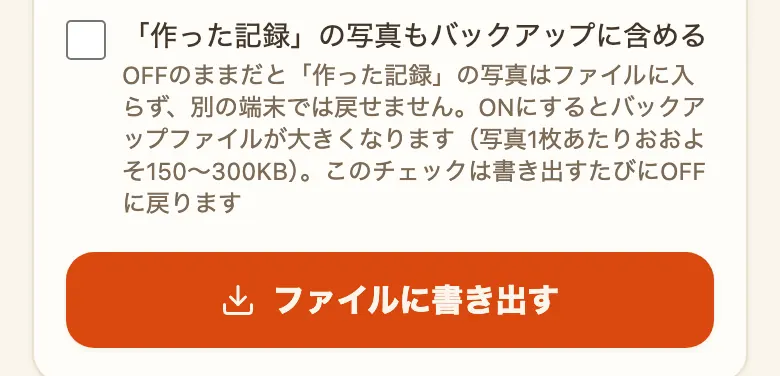
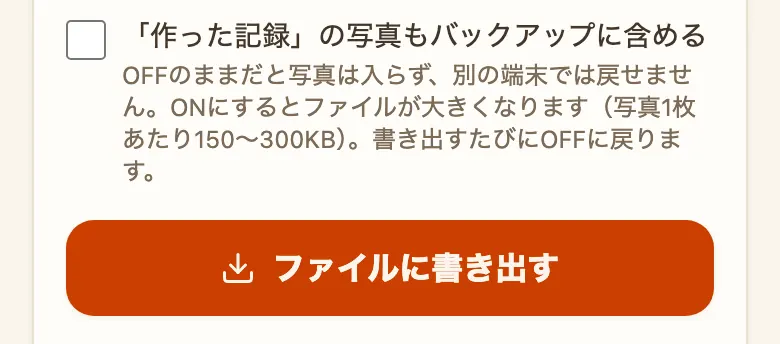
便FY(1/n): 説明書スクショ33カットを点検し8枚を現行UIへ追随+選択モードで献立に入れる図を新設
点検方法は 便EU/FJ と同じ(全カットを撮り直し、現行UIと1枚ずつ比べて『UIの変化』と
『毎回変わるデータ(日付・ランダム提案・生成された金額)』を切り分ける)。

撮り直した8枚(UIが変わったもの):
- cookmode-voice / cooknavi-session … 上部に「文字」(文字の大きさ)のボタンが増え、
  声の案内が3項目1行になった(便FX)
- cookmode … 上の案内が1行に縮んだぶん手順の本文が上がった
- cooknavi … 湯沸かしの待ちに数え方の2行が入った(便FX)
- cooknavi-session-others … 色の囲みの幅がそろった(便FX)
- backup-export / backup-import … 説明文が短くなり「今のデータに追加」の説明が消えた(便FW)
- paste … 調理時間が読み取れなかったことを結果に続けて出すようになった(便FU-3)

データだけが違って現行UIと同じだった15枚(home-suggest・register-tabs・ingredient-rows・
bulk-input・plan-week-day・plan-week-nutrition-open/row・cost-week・plan-month・shopping・
pantry・share・timer と紹介ページのplan-week-free・cost-week-free)は、日付や提案が
入れ替わるだけなので元の絵に戻した。install(6枚)とアプリ内の図(1枚)は組み立てが同じで
再生成しても1バイトも変わらないことを確認。

新設: select-for-today(「今日の献立を選ぶ」で開くレシピ一覧の選択モード)。
本文は「レシピ一覧が選択モードで開きます」と書いているのに図が1枚も無く、
押したあと何が起きるのかが読めなかった。

logs と plan-month-photo は写真5枚(misoshiru・hoikoro を含む)が要るが .manual-photos/ が
無いため撮っていない(既知の申し送り。.demo-photos の3枚では写真が減る)。

alt・width/height・scripts/data/manual-shot-sizes.json も追随。paste と backup-* は
紹介ページ(index.html)と複数の端末で使う方法(multi-device.html)にも載っているので同時に直した。

diff --git a/public/about/manual.html b/public/about/manual.html
@@ -680,11 +680,12 @@
     </ol>
 
     <figure class="shot" style="--w:390px">
-      <img src="/about/img/manual/paste.webp" width="780" height="844" loading="lazy" decoding="async" alt="テキスト貼り付けの欄。貼り付けた文章の下に「材料4件・手順3件を読み取りました。内容を確認して修正してください」と出て、その下に合わせ調味料の色分けについての案内と、「自動で振り分ける」「閉じる」のボタンが並んでいる">
+      <img src="/about/img/manual/paste.webp" width="780" height="924" loading="lazy" decoding="async" alt="テキスト貼り付けの欄。貼り付けた文章の下に「材料4件・手順3件を読み取りました。内容を確認して修正してください。調理時間は貼り付けた文章に書かれていなかったので、調理時間の欄は空のままです。」と出て、その下に合わせ調味料の色分けについての案内と、「自動で振り分ける」「閉じる」のボタンが並んでいる">
       <figcaption>貼り付けて「自動で振り分ける」を押すと、読み取った件数が出ます</figcaption>
     </figure>
 
     <p>「材料」「作り方」の見出しや改行のある文章はきれいに読み取れます。うまく読み取れなかったときは、案内に従って手で入れてください。</p>
+    <p class="muted">調理時間は、貼り付けた文章に書かれていれば一緒に入ります。入らなかったときは「調理時間は貼り付けた文章に書かれていなかったので、調理時間の欄は空のままです。」と結果に続けて出るので、手で入れてください。</p>
     <p class="muted">すでに材料・手順を入力している状態で振り分けると、材料・手順に加え、人数分・調理時間も貼り付けたものに置き換わります。置き換わる前に確認が出ます（料理名・ひとこと説明・メモはそのまま残ります）。</p>
 
     <h3>URLから取り込む</h3>
@@ -768,6 +769,13 @@
       <li>「今日の献立を選ぶ」: レシピ一覧が選択モードで開きます。レシピをタップして選び、「選択したレシピ◯品を今日の献立に入れる」を押すと、選んだぶんがまとめて入ります（食事は1回だけ聞かれます）</li>
       <li>「おまかせで提案」: 今日の分だけ、主菜と副菜を1品ずつ選びます</li>
     </ul>
+
+    <figure class="shot" style="--w:390px">
+      <!-- 2026-08-13 便FY: 本文が「レシピ一覧が選択モードで開きます」と書いているのに図が
+           1枚も無く、押したあとどんな画面になるのかが読めなかったため追加 -->
+      <img src="/about/img/manual/select-for-today.webp" width="780" height="990" loading="lazy" decoding="async" alt="「今日の献立を選ぶ」を押して開いたレシピ一覧。上に「今日の献立に入れるレシピを選んでいます」の枠、「全選択」「選択解除」、「選択したレシピ2品を今日の献立に入れる」のボタンが並び、その下の選んだ2枚のカードの左上にチェックの印が付いている">
+      <figcaption>「今日の献立を選ぶ」を押したあとのレシピ一覧。選んだ品数がボタンに出ます</figcaption>
+    </figure>
     <p>おまかせのあとに出る「別の提案を見る」を押すと、前のおまかせ分を入れ替えて別の組み合わせを提案し直します。決まった品は「作った！」で片付けられ、まとめて片付けるときは「全て作った！」を押します。</p>
     <p>決まった品は<strong>「レシピ一覧から選択中」</strong>と<strong>「今週の献立の予定」</strong>（朝食・昼食・夕食）に分かれて縦に並びます。「この献立から外す」（×）が押せるのは「レシピ一覧から選択中」だけです。今週の献立の予定は「週」の画面で変更します。</p>
 
@@ -954,7 +962,8 @@
     <p>「整理」中は複数選択できます。「選んだ食材の在庫状況をまとめて変更」で「ある」「少ない」「ない」に一括変更でき、「選択した食材◯件を削除」でまとめて消せます。削除の確認では、消える件数と、レシピ・買い物メモ・「作った」の記録が消えないことを両方お伝えします。</p>
 
     <h3>「作った！」で在庫を1つ下げる</h3>
-    <p>「作った記録をつける」窓の「使った食材の在庫を減らす」をONにしておくと、記録したときに使った食材の在庫を「ある→少ない→ない」の順に1つ下げます（調味料は減りません）。</p>
+    <p>「食材の在庫」の下にある<strong>「「作った！」で在庫を減らす」</strong>をONにしておくと、「作った！」を押したときに、その料理で使う食材の在庫を「ある→少ない→ない」の順に1つ下げます。調味料と、在庫に登録していない食材は変わりません。</p>
+    <p>レシピ・献立・並行調理ナビのどの「作った！」でも同じように下がります。レシピ詳細の「作った記録をつける」窓に出る「使った食材の在庫を減らす」と同じ設定なので、どちらで切り替えても連動します。</p>
     <p class="muted">最初はOFFで、切り替えると次からも覚えています。</p>
 
     <h3>在庫からレシピを探す</h3>
@@ -1028,8 +1037,8 @@
     <p>右上の「声で操作」を押すと、次の言葉で操作できます。</p>
 
     <figure class="shot" style="--w:390px">
-      <img src="/about/img/manual/cookmode-voice.webp" width="780" height="368" loading="lazy" decoding="async" alt="調理中モードの上部。「手順 3/4」の右に「声で操作」「読み上げ」のボタンが並び、その下に声で使える言葉の案内が4行で出て、右下にタイマーのマークのボタンがある">
-      <figcaption>調理中モードの上部。「声で操作」と「読み上げ」のボタンが並びます</figcaption>
+      <img src="/about/img/manual/cookmode-voice.webp" width="780" height="368" loading="lazy" decoding="async" alt="調理中モードの上部。「手順 3/4」の右に「声で操作」「読み上げ」「文字」のボタンが並び、その下に声で使える言葉の案内が1行で出て、「「読み上げ」でいまの手順を読み上げ」の部分だけ色を変えた太字になっている。右下にタイマーのマークのボタンがある">
+      <figcaption>調理中モードの上部。「声で操作」「読み上げ」「文字」のボタンが並びます</figcaption>
     </figure>
 
     <ul class="feature-list">
@@ -1048,6 +1057,11 @@
     <h3>読み上げ</h3>
     <p>「読み上げ」を押すと、いま出ている手順を読み上げます。もう一度押すと止まります。</p>
     <p class="muted">対応していないブラウザでは「お使いのブラウザは読み上げに対応していません」と出ます。</p>
+    <p class="muted">読み上げの声は端末の機能を使っています。読み方が思ったとおりでないときは、読み上げを一度使ったあとに出る「読み方が合わないときは」に、iPhone・Androidそれぞれの声の切り替え方を載せています。</p>
+
+    <h3>手順の文字の大きさを変える</h3>
+    <p>右上の<strong>「文字」</strong>を押すと「手順の文字の大きさ」の窓が開き、<strong>「小さめ」「ふつう」「大きめ」「特大」</strong>から選べます。変わるのは手順の本文・注意書き・材料の文字で、番号やボタンの位置は動きません。</p>
+    <p class="muted">選んだ大きさは端末に残るので、次に開いたときも同じです。並行調理ナビの段取りを調理中モードで見ているときも同じ大きさになります。</p>
 
     <h3>タイマー</h3>
     <p>手順の文章の中の「10分」のような時間表記はボタンになっています。<strong>タップするとその時間のタイマーが始まります。</strong>時間が本文に出てこない手順には「目安◯分」のボタンが付きます。</p>
@@ -1081,12 +1095,21 @@
     <p>献立の画面の「日」に2品以上並ぶと、その下に<strong>「並行調理ナビ」の入口</strong>が出ます。入口を押して、「レシピ一覧から選択中」と「今週の献立の予定」の両方から2〜3品を選んで「段取りを作る」を押すと、<strong>待ち時間の長い工程を先にして、その隙間に別の手作業を差し込んだ「1本の段取り」</strong>を提案します。</p>
 
     <figure class="shot" style="--w:390px">
-      <img src="/about/img/manual/cooknavi.webp" width="780" height="640" loading="lazy" decoding="async" alt="並行調理ナビの手順。「湯が沸くまでの待ち時間」の帯に「タイマーを始める」のボタンと「この間に、次の手作業を進められます」が入り、その下に次の手順が「肉じゃが」「手を動かす」の印と、使う材料・分量つきで並んでいる">
+      <img src="/about/img/manual/cooknavi.webp" width="780" height="640" loading="lazy" decoding="async" alt="並行調理ナビの手順。「湯が沸くまでの待ち時間」の帯に「タイマーを始める」のボタンと「この間に、次の手作業を進められます」、「全体の目安には約5分として数えています。実際に沸くまでの時間は、火力と湯の量で変わります。」が入り、その下に次の手順が「肉じゃが」「手を動かす」の印と、使う材料・分量つきで並んでいる">
       <figcaption>「待ち」の間に、次の手作業の手順が入ります</figcaption>
     </figure>
 
-    <p>手順には「待ち」「手を動かす」の区別が付き、待ち時間には「約◯分の待ち時間」「この間に、次の手作業を進められます」と出ます。全体の目安の時間も出ます。</p>
+    <p>手順には「待ち」「手を動かす」の区別が付き、待ち時間には「約◯分の待ち時間」「この間に、次の手作業を進められます」と出ます。<strong>分数を出している待ちには、必ず「タイマーを始める」のボタンが付きます。</strong></p>
+    <p>ナビが足したお湯を沸かす待ちだけは、沸くまでの時間がコンロの火力と湯の量で変わるため分数を書かず、<strong>「湯が沸くまでの待ち時間」</strong>と出します。全体の目安には約5分として数えていることを、その待ちの中に添えています。</p>
+
+    <h3>時間の目安の読み方</h3>
+    <p>段取りの上に<strong>「全体の目安 約◯分」</strong>と、<strong>「1品ずつ作ると約◯分 → この段取りで約◯分」</strong>が出ます。組み合わせた品それぞれにも<strong>「1品だけなら約◯分」</strong>が付くので、「1品ずつ作ると約◯分」がその足し算だと確かめられます。</p>
+    <p class="muted">この分数は、手順ごとの時間を数えて合計した目安です。レシピ一覧に出ている「調理時間」とは数え方が違うため、一覧の合計とは一致しません。漬ける・冷やすなどの台所を離れられる待ちが入っているときは、そのぶんの分数も別に添えます。</p>
+
+    <h3>材料とレシピのメモ</h3>
     <p>段取りの上にある<strong>「材料を見る」</strong>を押すと、選んだ品ごとの材料と分量を一覧で確認できます。調理を始める前にまとめて計量したいときに使えます。各手順の下には、その手順で使う材料の分量だけが料理名つきで出ます。</p>
+    <p>合わせ調味料（同じ色にした材料）は、この材料の一覧でまとまりごとに出ます。まとまりの読み方の説明が出るのは材料の一覧の1か所だけで、手順ごとには繰り返しません。</p>
+    <p>レシピに書いてある<strong>「レシピのメモ」</strong>（生の肉を扱ったあとの洗い方、火の通し方、保存のしかたなど）は、関係する手順の中に出ます。生の食材の注意はその食材を最初に扱う手順、火の通し方は最後に加熱する手順、保存の注意は最後の手順です。</p>
     <p class="note">
       <strong>順番は前後してかまいません</strong>
       火加減や進み具合に合わせて、やりやすい順に進められます。
@@ -1096,21 +1119,22 @@
     <p>段取りの上にある<strong>「調理中モードで見る」</strong>を押すと、いまやる手順だけを大きな文字で表示する画面になります。読み上げ・タイマー・声での操作は、レシピ1品を開いたときの<a href="#cookmode">調理中モード</a>と同じです。声で使える言葉には、色の言い方が加わります。</p>
 
     <figure class="shot" style="--w:390px">
-      <img src="/about/img/manual/cooknavi-session.webp" width="780" height="186" loading="lazy" decoding="async" alt="段取りの調理中モードの上部。左から✕、「最初の手順へ」のボタン、緑色の「ほうれん草のおひたし」と「段取り 12/14」、「声で操作」「読み上げ」のボタンが並んでいる">
+      <img src="/about/img/manual/cooknavi-session.webp" width="780" height="186" loading="lazy" decoding="async" alt="段取りの調理中モードの上部。左から✕、「最初の手順へ」のボタン、緑色の「ほうれん草のおひたし」と「段取り 12/14」、「声で操作」「読み上げ」「文字」のボタンが並んでいる">
       <figcaption>調理中モードの上部。左上が「最初の手順へ」、中央が料理名と「段取り 12/14」です</figcaption>
     </figure>
 
     <ul class="feature-list">
       <li><strong>「段取り ◯/◯」</strong>: 段取り全体の中で、いまが何番目の手順かを表します</li>
       <li><strong>左上の「最初の手順へ」</strong>: 段取りの最初の手順に戻ります。先頭の手順を開いている間は押せません。押した直後だけ<strong>「元の手順に戻す」</strong>が出て、押す前にいた手順へ1回で帰れます</li>
-      <li>画面の下の「前へ」「次へ」、または左右へのスワイプで手順を移動します。最後の手順では<strong>「完成！」</strong>になります。押すと、段取りに組んだ品にまとめて作った記録をつけるかどうかを確認します（つけないときは段取りの画面に戻り、あとから「まとめて作った！」で記録できます）</li>
+      <li>画面の下の「前へ」「次へ」、または左右へのスワイプで手順を移動します。最後の手順では<strong>「完成！」</strong>になります。押すと「段取りの最後の手順まで進みました」の窓が開き、<strong>「記録をつける」「調理を続ける」「記録をつけずに閉じる」</strong>の3つから選べます。「調理を続ける」を押すと、「完成！」を押す直前に見ていた手順の画面に戻ります</li>
+      <li>「記録をつける」を選ぶと、段取りに組んだ品にまとめて作った記録をつけます。あとから「作った記録の一覧」で1件ずつ編集できます。ここでつけなくても、段取りの画面の「まとめて作った！」からいつでも記録できます</li>
       <li>✕で閉じても手順は覚えています。入口のボタンが<strong>「調理中モードの続きから見る」</strong>に変わり、閉じたときの手順から始まります</li>
       <li>声で使える言葉の案内は、<strong>「声で操作」</strong>を押している間だけ画面に出ます</li>
       <li>タイマーが鳴り終わると、画面の上に料理名と終わりの合図が大きく出ます。<strong>「タイマーを消す」</strong>で消すまで残り、手順を進めても同じ場所に出続けます</li>
     </ul>
 
     <h3>他の品の次の手順</h3>
-    <p>画面の下には<strong>「他の品の次の手順」</strong>が1行ずつ並びます。行をタップすると全文が出ます（調理中の手順は変わりません）。開いた中の<strong>「この手順に移る」</strong>を押すと、その品の手順に移ります。</p>
+    <p>画面の下には<strong>「他の品の次の手順」</strong>が1行ずつ並びます。行をタップすると全文が出ます（調理中の手順は変わりません）。開いた中の<strong>「この手順を先にする」</strong>を押すと、その手順がいま開いている場所に入ります。</p>
 
     <figure class="shot" style="--w:390px">
       <img src="/about/img/manual/cooknavi-session-others.webp" width="780" height="224" loading="lazy" decoding="async" alt="「他の品の次の手順」の枠。1行目は青い「青」の印と「肉じゃが」が並び、行の右端に青い「完成」。2行目はピンクの「ピンク」の印、段取りの番号14、レシピの手順番号4、「豚汁」が並び、その下に次の手順の本文が1行で出ている">
@@ -1125,7 +1149,7 @@
     </ul>
 
     <h3 id="cooknavi-color">色を言って別の品の手順に移る</h3>
-    <p><strong>「声で操作」</strong>を押してから<strong>「青」「緑」「ピンク」</strong>と言うと、その色の品の次の手順が開きます。他の品を先に進めたいときに使えます。指で移るときは、その品の行をタップして開き、<strong>「この手順に移る」</strong>を押します（移り方はどちらも同じです）。</p>
+    <p><strong>「声で操作」</strong>を押してから<strong>「青」「緑」「ピンク」</strong>と言うと、その色の品の次の手順が開きます。他の品を先に進めたいときに使えます。指で移るときは、その品の行をタップして開き、<strong>「この手順を先にする」</strong>を押します（移り方はどちらも同じです）。</p>
 
     <ul class="feature-list">
       <li><strong>手順は飛ばされません。</strong>言った色の品の手順が、いま開いている手順の場所に入ります。開いていた手順は1つ後ろに下がり、あとで回ってきます</li>
@@ -1135,6 +1159,13 @@
       <li>移れないときは理由が出ます（「◯◯の手順は、いま開いています」「◯◯は完成しています」「◯◯の品はありません」）</li>
     </ul>
     <p class="muted">色の名前は、<strong>その言葉だけを言ったとき</strong>に働きます。「青ねぎを散らす」のように文の中に色が入っていても、手順は動きません。</p>
+
+    <h3>段取りをやり直す・消す</h3>
+    <p>作った段取りと、どこまで進んだかは、アプリを開き直しても<strong>その日のうちは残ります</strong>。日付が変わったときは残さず、その理由を画面でお知らせします（レシピと作った記録はそのままです）。</p>
+    <ul class="feature-list">
+      <li><strong>「レシピを選び直す」</strong>: 組み合わせを選ぶところに戻ります。品を入れ替えて「段取りを作る」を押し直せます</li>
+      <li><strong>「段取りを消す」</strong>: 作った段取りと、選んでいた品の組み合わせを消して白紙に戻します。調理中だった手順も消えます。レシピ・今日の献立・作った記録・動いているタイマーは残ります（消える前に件数つきで確かめられます）</li>
+    </ul>
 
     <p class="muted">並行調理ナビはPro版の機能です。未解錠のときは鍵のマークと案内が出ます。案内の中の「お試しで使ってみる」から、3回までお使いいただけます。<a href="#pro">無料で使える範囲とPro版</a>もご覧ください。</p>
   </section>
@@ -1195,7 +1226,7 @@
     <p class="muted">食材の在庫を1つ以上登録していると「在庫の食材から探す」も出ます。押すと、絞り込みの「在庫の食材で絞る」を入れた状態でレシピ一覧が開きます。</p>
 
     <h3>かなで書いても見つかります</h3>
-    <p>レシピ一覧の上部にある検索欄（「料理名・材料・タグで検索」）は、表記のゆれを吸収します。</p>
+    <p>レシピ一覧の上部にある検索欄（「料理名・材料・タグ」）は、表記のゆれを吸収します。</p>
 
     <figure class="shot" style="--w:390px">
       <img src="/about/img/manual/search.webp" width="780" height="774" loading="lazy" decoding="async" alt="レシピ一覧で「たまねぎ」と検索した画面。検索欄の下にヒットした件数と全体の件数が出て、玉ねぎを使うレシピのカードが並んでいる">
@@ -1228,6 +1259,7 @@
 
     <h3>まとめて選ぶ（今日の献立に入れる・書き出す・削除する）</h3>
     <p>レシピ一覧の<strong>「選択」</strong>を押すと選択モードになり、レシピをタップ（長押しでも選べます）して複数選べます。「全選択」「選択解除」も使えます。選び終わったら「選択したレシピ◯品を今日の献立に入れる」「選択したレシピ◯品を書き出す」「選択したレシピ◯品を削除」のどれかを押します。</p>
+    <p class="muted">1品も選んでいないうちから「選んだレシピは、今日の献立に入れる・書き出す・削除するができます」が出るので、選び始める前に何ができるか分かります。献立の「今日の献立を選ぶ」から開いたときは、献立に入れるボタンだけを出します（<a href="#mealplan">献立を立てる</a>）。</p>
     <p><strong>「選択したレシピ◯品を今日の献立に入れる」</strong>は、選んだレシピをまとめて今日の献立に入れます。食事（朝食・昼食・夕食）は品ごとではなく1回だけ聞かれ、選ぶと今週の予定（今日の枠）にも入ります。すでに入っている品は増えません。</p>
     <p><strong>「選択したレシピ◯品を書き出す」</strong>は、選んだレシピだけをファイルにします。入るのはレシピの内容と写真、そのレシピの「作った記録」（日付・人数分・メモ）です。「作った記録」の写真、献立、買い物メモ、食材の在庫と価格、アプリの設定は入りません。書き出しても端末のレシピはそのまま残ります。読み込むときは、設定の「バックアップを読み込む」から「今のデータに追加」を押してこのファイルを選びます。</p>
     <p class="muted">ファイル名は <code>uchi-recipe-recipes-日付.json</code> です。端末ぜんぶを持ち出すバックアップ（<code>uchi-recipe-backup-日付.json</code>）とは中身の範囲が違うので、名前で見分けられます。</p>
@@ -1264,7 +1296,7 @@
     <p>「バックアップを取る」の「ファイルに書き出す」で、レシピ・写真・記録・設定を1つのファイルに保存します。設定画面の上には「最終バックアップ: ◯日前」が出ていて、「書き出しへ」を押すと書き出しのカードまで移動します。</p>
 
     <figure class="shot" style="--w:390px">
-      <img src="/about/img/manual/backup-export.webp" width="780" height="376" loading="lazy" decoding="async" alt="設定のバックアップ画面。「「作った記録」の写真もバックアップに含める」のチェック（OFF）と説明文の下に、「ファイルに書き出す」のボタンがある">
+      <img src="/about/img/manual/backup-export.webp" width="780" height="344" loading="lazy" decoding="async" alt="設定のバックアップ画面。「「作った記録」の写真もバックアップに含める」のチェック（OFF）と説明文の下に、「ファイルに書き出す」のボタンがある">
       <figcaption>書き出しのカード。写真を含めるかはチェックで切り替えます</figcaption>
     </figure>
 
@@ -1308,7 +1340,7 @@
     <h3>読み込む: 「追加」と「上書き」</h3>
 
     <figure class="shot" style="--w:390px">
-      <img src="/about/img/manual/backup-import.webp" width="780" height="444" loading="lazy" decoding="async" alt="バックアップの読み込みの2つのボタン。「今のデータに追加」と、赤い枠の「データを上書き」が並び、それぞれの下に説明が付いている">
+      <img src="/about/img/manual/backup-import.webp" width="780" height="348" loading="lazy" decoding="async" alt="バックアップの読み込みの2つのボタン。「今のデータに追加」と、赤い枠の「データを上書き」が並び、上書きのほうの下だけに「今のデータを消して選んだファイルの内容だけにします」の注意が付いている">
       <figcaption>読み込みは2種類。上書きのほうは赤い枠で区別しています</figcaption>
     </figure>
 
@@ -1330,6 +1362,12 @@
 
     <h4>前のファイルにまとめる</h4>
     <p>書き出す前に「前回のアーカイブファイルを選ぶ」で前に書き出したファイルを選ぶと、<strong>中身を引き継いで1つのファイルにまとまります。</strong>同じ記録が二重に入ることはありません。選ばなければ新しいファイルを作ります。</p>
+
+    <p class="muted">端末が軽くなるのは、書き出したファイルをパソコンやクラウドなど端末の外へ移し、そのうえで端末の記録を消したときです。書き出したファイルを端末に置いたままでは軽くなりません。</p>
+
+    <h4>バックアップファイルとの違い</h4>
+    <p>アーカイブファイルとバックアップファイルは別のものです。バックアップファイルはレシピ・作った記録・設定をまるごと保存し、アプリに読み込んで元に戻せます。<strong>アーカイブファイルは「作った記録」だけを保存したもので、中身は読めますがアプリには戻せません。</strong></p>
+    <p class="muted">ファイル名は、アーカイブが <code>uchi-recipe-records-</code>、バックアップが <code>uchi-recipe-backup-</code> で始まります。</p>
 
     <h4>書き出した記録を読む</h4>
     <p>「アーカイブを見る」でファイルを選ぶと、中身を日付の新しい順に読めます（写真・料理名・メモ）。<strong>読むだけで、端末には保存されません。</strong>読めない記録が混じっていたときは、何件読めて何件読めなかったかを出します。</p>

diff --git a/public/about/multi-device.html b/public/about/multi-device.html
@@ -357,7 +357,7 @@
       <strong>今の端末</strong>で、設定の「バックアップ」を開き、「ファイルに書き出す」を押します。
       <p class="muted">「作った記録」の写真も移すときは、先に「「作った記録」の写真もバックアップに含める」をONにします。このチェックは書き出すたびにOFFに戻ります。</p>
       <figure class="shot" style="--w:390px">
-        <img src="/about/img/manual/backup-export.webp" width="780" height="376" loading="eager" decoding="async" alt="設定のバックアップ画面。「「作った記録」の写真もバックアップに含める」のチェック（OFF）と説明文の下に、「ファイルに書き出す」のボタンがある">
+        <img src="/about/img/manual/backup-export.webp" width="780" height="344" loading="eager" decoding="async" alt="設定のバックアップ画面。「「作った記録」の写真もバックアップに含める」のチェック（OFF）と説明文の下に、「ファイルに書き出す」のボタンがある">
         <figcaption>書き出しは1ファイル。ファイル名は <code>uchi-recipe-backup-日付.json</code> です</figcaption>
       </figure>
     </li>
@@ -380,7 +380,7 @@
   <h2 id="import">読み込みは「追加」と「上書き」の2種類</h2>
   <p>設定の「バックアップを読み込む」には、ボタンが2つ並びます。</p>
   <figure class="shot" style="--w:390px">
-    <img src="/about/img/manual/backup-import.webp" width="780" height="444" loading="lazy" decoding="async" alt="バックアップの読み込みの2つのボタン。「今のデータに追加」と、赤い枠の「データを上書き」が並び、それぞれの下に説明が付いている">
+    <img src="/about/img/manual/backup-import.webp" width="780" height="348" loading="lazy" decoding="async" alt="バックアップの読み込みの2つのボタン。「今のデータに追加」と、赤い枠の「データを上書き」が並び、上書きのほうの下だけに「今のデータを消して選んだファイルの内容だけにします」の注意が付いている">
     <figcaption>まるごと移すときは「データを上書き」、2台のぶんを合わせるときは「今のデータに追加」です</figcaption>
   </figure>
   <table class="cmp">

diff --git a/public/about/index.html b/public/about/index.html
@@ -610,7 +610,7 @@
     <h3>2. 文章を貼り付ける</h3>
     <p>材料と作り方がまとまった文章を貼ると、<strong>材料と手順に自動で振り分けます</strong>。URLで取り込めなかったページも、文章を貼れば登録できます。</p>
     <figure class="shot" style="--w: 390px;">
-      <img src="/about/img/manual/paste.webp" width="780" height="844" loading="lazy" decoding="async" alt="テキスト貼り付けの欄。貼り付けた文章の下に「材料4件・手順3件を読み取りました。内容を確認して修正してください」と出ている">
+      <img src="/about/img/manual/paste.webp" width="780" height="924" loading="lazy" decoding="async" alt="テキスト貼り付けの欄。貼り付けた文章の下に「材料4件・手順3件を読み取りました。内容を確認して修正してください。」と読み取った結果が出ている">
       <figcaption>文章を貼れば、材料と手順に自動で振り分けます</figcaption>
     </figure>
 
@@ -831,7 +831,7 @@
     <h3>バックアップでレシピを保存</h3>
     <p>設定の「バックアップ」から、<strong>レシピ帳を1つのファイルに書き出せます</strong>。新しい端末でバックアップファイルを読み込めば、そのまま続きを使えます。</p>
     <figure class="shot" style="--w: 390px;">
-      <img src="/about/img/manual/backup-export.webp" width="780" height="376" loading="lazy" decoding="async" alt="設定のバックアップ画面。「「作った記録」の写真もバックアップに含める」のチェックと説明文の下に、「ファイルに書き出す」のボタンがある">
+      <img src="/about/img/manual/backup-export.webp" width="780" height="344" loading="lazy" decoding="async" alt="設定のバックアップ画面。「「作った記録」の写真もバックアップに含める」のチェックと説明文の下に、「ファイルに書き出す」のボタンがある">
       <figcaption>書き出しは1つのファイルにまとまります</figcaption>
     </figure>
     <p>書き出したバックアップファイルを<strong>Googleドライブなどのクラウドに置いておくと、別の端末から同じレシピ帳を読み込んで開けます</strong>。</p>
